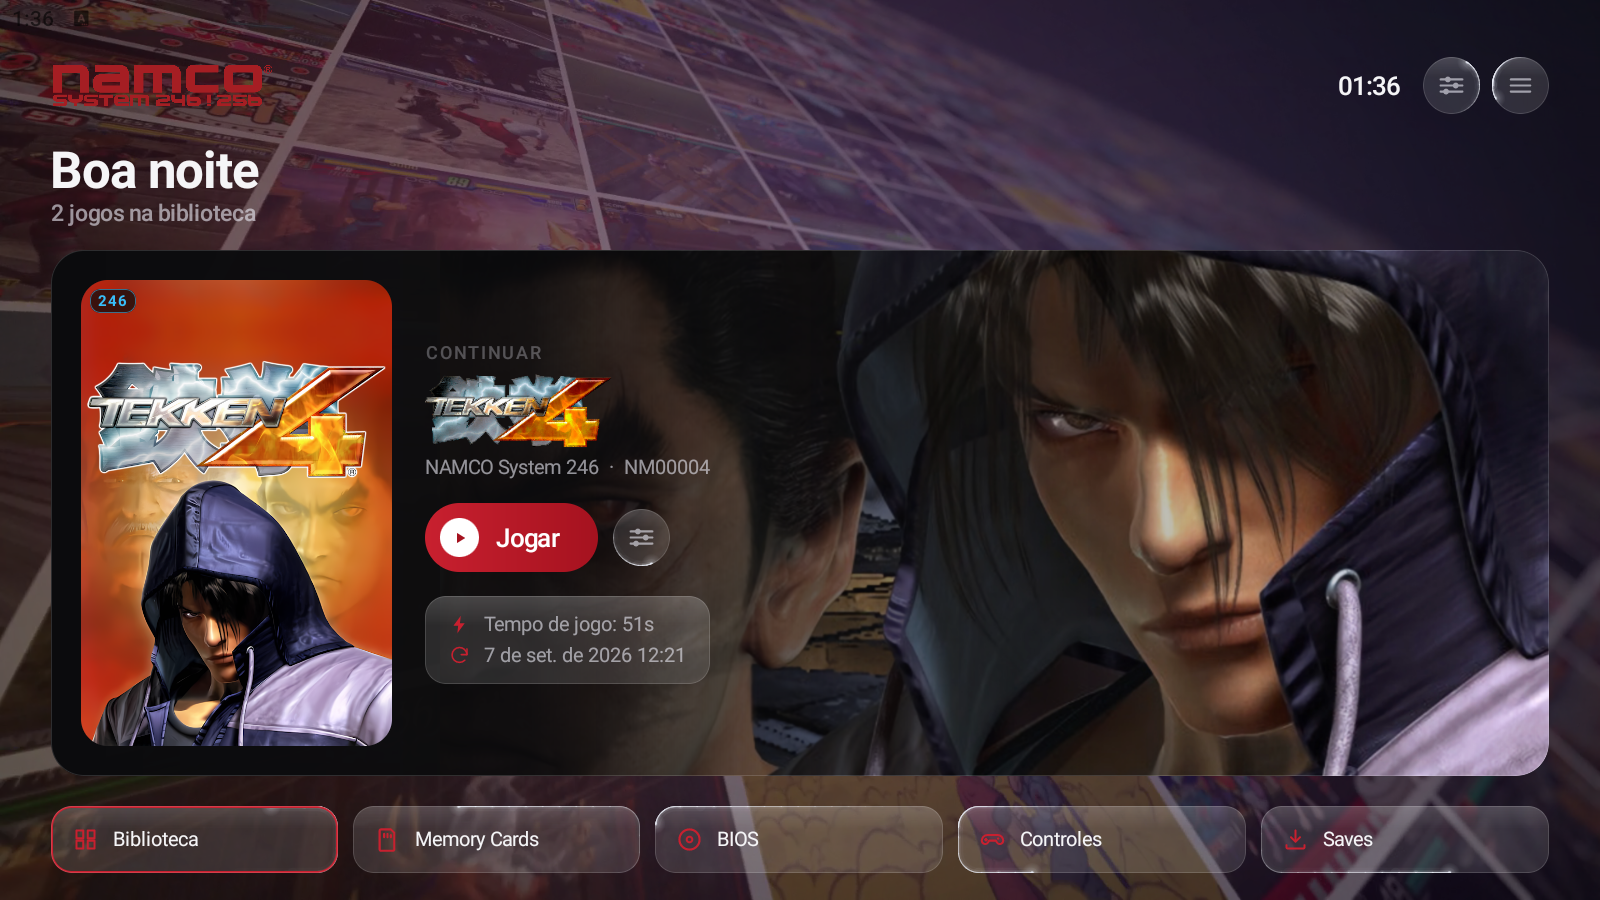
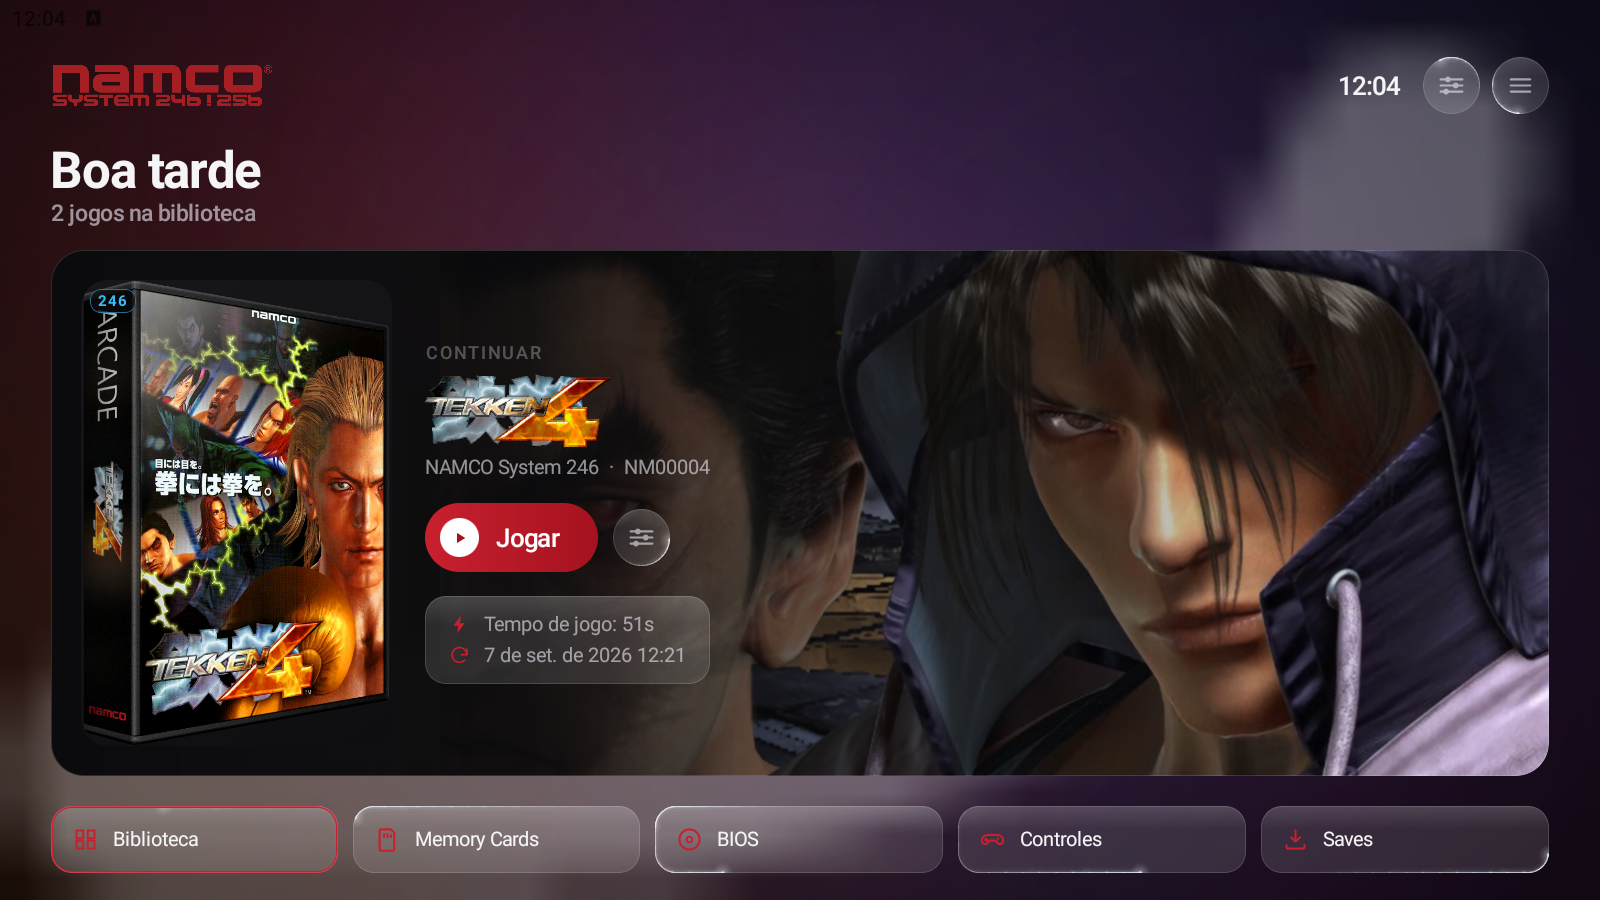
Show the app instead of describing it: eight screenshots
A feature list is a promise; a screenshot is evidence. Eight now, each captioned with the thing it
proves rather than the screen it is: the library with its board badges, the per-game menu, the
SRAM sheet, BIOS images identified by structure, the cabinet link with its frame counter, the
artwork screen, the system menu, and the home card.

The artwork one is cropped on purpose -- the full screen has a SteamGridDB API key in plain text
on it, and this repository is public.

diff --git a/README.md b/README.md
@@ -8,7 +8,7 @@ Not a PS2 emulator with an arcade mode bolted on. It boots `.acgame` manifests, 
 emulated JVS I/O board, keeps the cabinet's battery-backed SRAM, and has no idea what a DualShock
 is.
 
-![Library](docs/library.png)
+![Namco System 246 EMU](docs/home.png)
 
 ---
 
@@ -44,7 +44,20 @@ is.
 - Per-game settings that never overwrite the global ones
 - Link between two devices on one Wi-Fi, the way two cabinets shared a bench
 
-![Home](docs/home.png)
+---
+
+## Screenshots
+
+| | |
+|---|---|
+| ![Library](docs/library.png) | ![Game menu](docs/game-menu.png) |
+| The library: rendered arcade cases, a **246** or **256** badge on every one, and the compatibility verdict beside the board on the right. | Everything that belongs to one game, from a held cover. None of it overwrites a global setting. |
+| ![SRAM](docs/sram.png) | ![BIOS](docs/bios.png) |
+| The board's 32 KB of battery-backed memory — where the high scores live — with backup, restore, export and import. | BIOS images identified by structure, not by hash: the board, the EXTINFO serial and the revision. Open-source images can be downloaded from here. |
+| ![Link](docs/link.png) | ![Artwork](docs/artwork.png) |
+| Two devices on one Wi-Fi, the way two cabinets shared a bench — with a frame counter, so a dead link is told apart from a quiet game. | Box art fetched by game id, so it cannot be the wrong game; SteamGridDB only fills what the arcade set does not carry. |
+| ![Menu](docs/menu.png) | |
+| Everything else: BIOS, memory cards, controls, save states, artwork, patches, textures. | |
 
 ---
 
@@ -76,8 +89,6 @@ Playable, and honest about where it is not:
 | Media on `.chd` | read-only — a game that writes to its own disc has those writes dropped |
 | Shaders | compiled the first time each variant appears, which is felt as a stutter |
 | Cabinet link | the transport works; whether any of these games links is still unproven |
-
-![SRAM](docs/sram.png)
 
 ---
 
